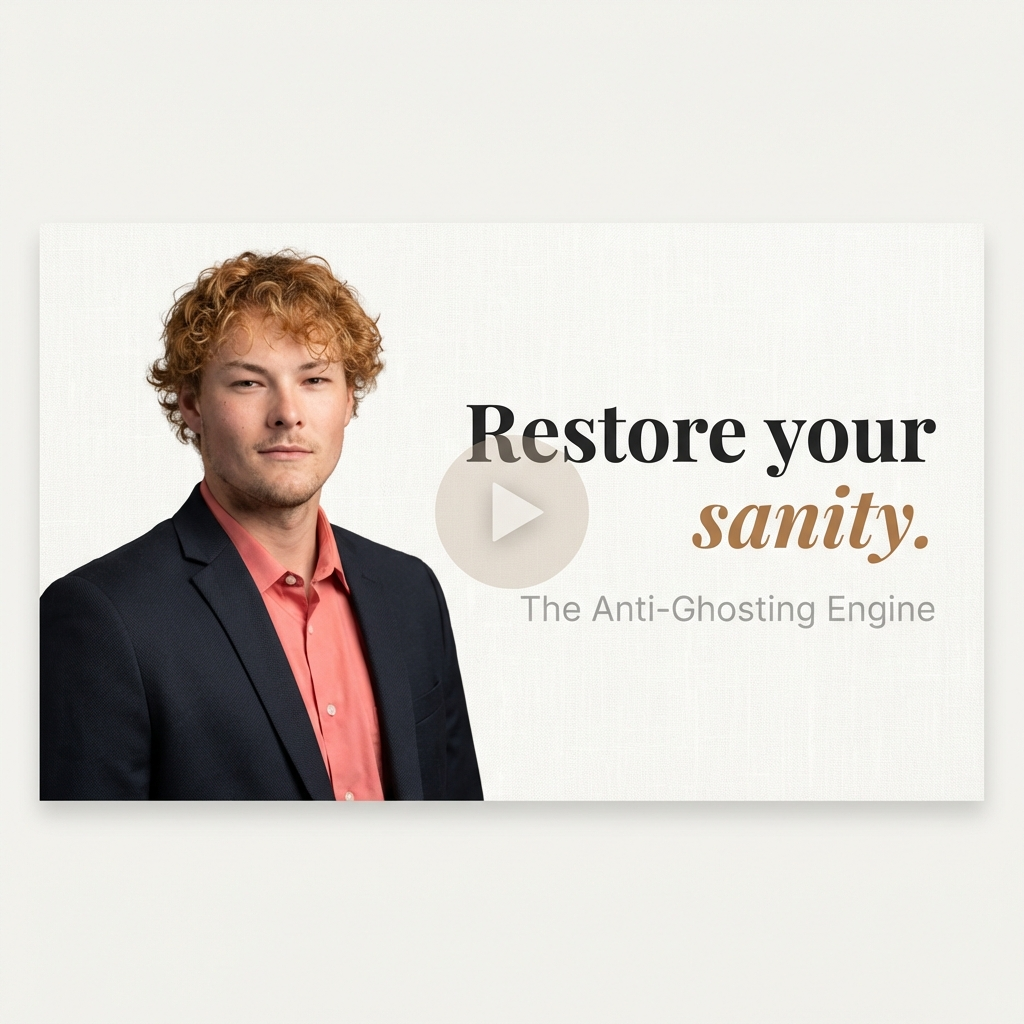
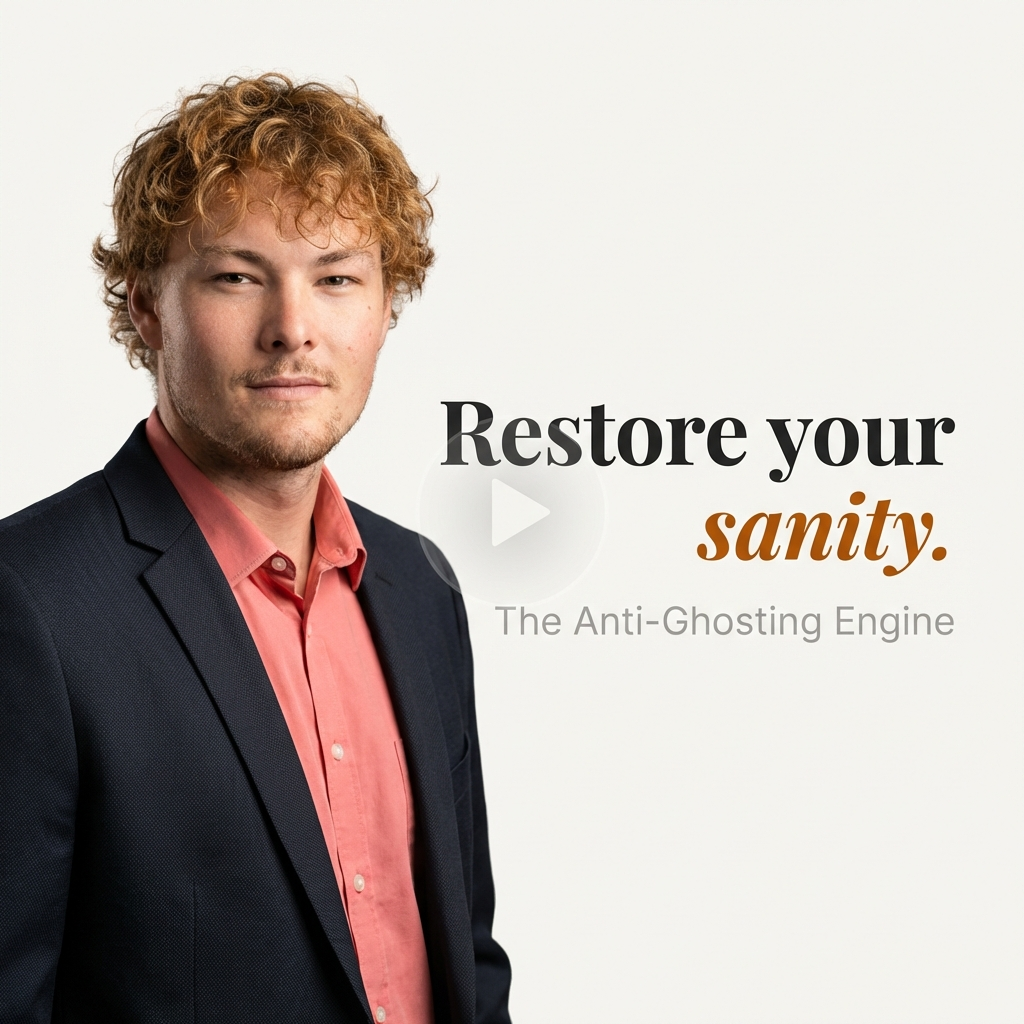
Update thumbnail likeness and change sanity text to amber-700

diff --git a/src/app/apply/page.tsx b/src/app/apply/page.tsx
@@ -33,7 +33,7 @@ export default function ApplyPage() {
                 </span>
 
                 <h1 className="font-serif text-5xl md:text-7xl text-stone-900 leading-[1.1] mb-6 tracking-tight">
-                    Restore your <span className="italic text-stone-500 font-light">sanity.</span>
+                    Restore your <span className="italic text-amber-700 font-light">sanity.</span>
                 </h1>
 
                 <p className="max-w-2xl text-lg md:text-xl text-stone-600 font-light leading-relaxed">
